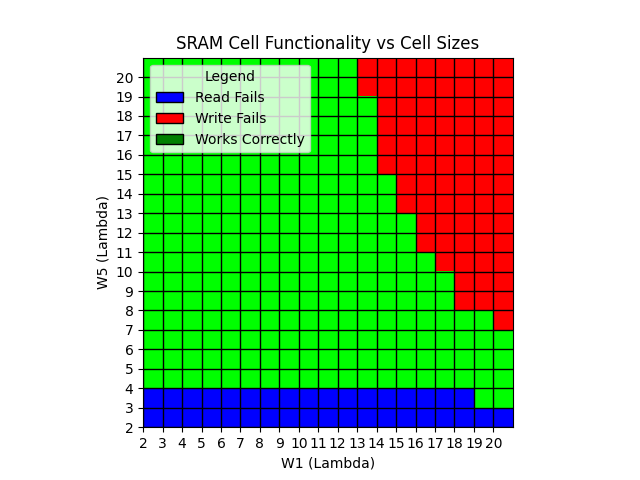
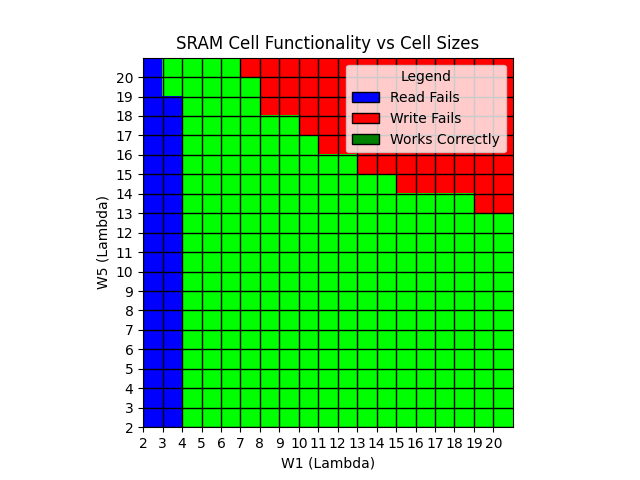
fixed orientation

Changed region(s): [[0.2188, 0.125, 0.8125, 0.9062], [0.5938, 0.4062, 0.8125, 0.6875]]

diff --git a/find_working.py b/find_working.py
@@ -52,7 +52,9 @@ def find_working():
         if values['read_0_q_max'] < 0.5 and values['read_1_qb_max'] < 0.5 and values['write_0_min_write'] < 0.1 and values['write_1_max_write'] > 1.7:
             working[key] = values
     print("Tried: " + str(len(data)) + " Working: " + str(len(working)))
-
+    for item in working:
+        print(item)
+        print(working[item])
     # Create a figure and a subplot
     fig, ax = plt.subplots()
 
@@ -66,12 +68,11 @@ def find_working():
             # Example condition: color based on even or odd sum of indices + 2 (to start from 2 to 20)
             key_tuple = (i+2, j+2)
             if data[key_tuple]['read_0_q_max']>0.5 or data[key_tuple]['read_1_qb_max']>0.5:
-                graph[i, j] = [0, 0, 1]  # Blue
+                graph[j, i] = [0, 0, 1]  # Blue
             elif data[key_tuple]['write_0_min_write']>0.1 or data[key_tuple]['write_1_max_write']<1.7:
-                graph[i, j] = [1, 0, 0]  # Red
+                graph[j, i] = [1, 0, 0]  # Red
             else:
-                graph[i,j] = [0,1,0]
-
+                graph[j,i] = [0,1,0]
     # Display the grid
     # We use 'nearest' interpolation to show the individual square colors without blurring
     ax.imshow(graph, interpolation='nearest')
@@ -94,7 +95,7 @@ def find_working():
         Patch(facecolor='red', edgecolor='black', label='Write Fails'),
         Patch(facecolor='green', edgecolor='black', label='Works Correctly'),
     ]
-    ax.legend(handles=legend_elements, loc='upper left', title="Legend")
+    ax.legend(handles=legend_elements, loc='upper right', title="Legend")
     plt.show()
 if __name__ == '__main__':
     # Path to the file - adjust the filename as needed
